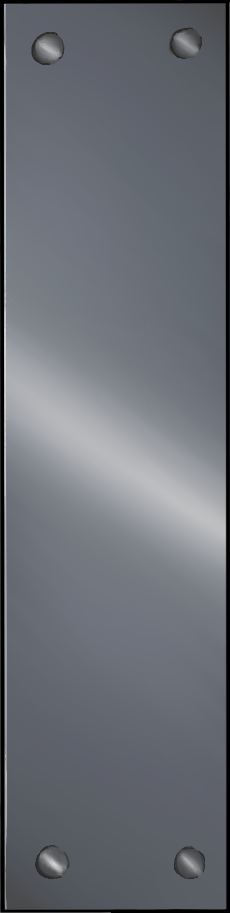
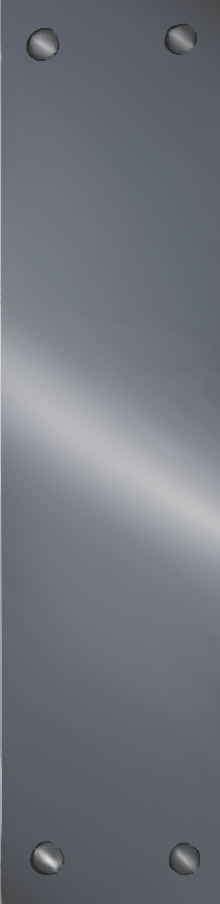
can move camera around freely. buggy jiggle visible

Changed region(s): [[0.0, 0.0, 1.0, 1.0]]

diff --git a/Components/ComponentEditor.py b/Components/ComponentEditor.py
@@ -24,6 +24,7 @@ class Editor(Component.Component):
         self.state = EditorState.Free
         self.minZoom = 1.0/15
         self.maxZoom = 1.0
+        self.startDrag = None
         
     def Start(self):
         self.CreateSelectables()
@@ -73,7 +74,12 @@ class Editor(Component.Component):
         if GlobalVars.mouseLeft:
             self.OnLeftClick()
         if GlobalVars.mouseMid:
+            if self.startDrag is None:
+                self.startDrag = ComponentTransform.Transform.ScreenToWorldPos(GlobalVars.mousePosScreen, self.workingScene.camera)
+                self.camStartPos = self.workingScene.camera.parent.GetComponent(ComponentType.Transform).position
             self.MoveCamera()
+        else:
+            self.startDrag = None
         if GlobalVars.scrollEvent is not None:
             self.ScrollCamera()
             
@@ -83,8 +89,9 @@ class Editor(Component.Component):
         if self.state == EditorState.Placing:
             self.PlaceObject()
             
-    def MoveCamera(self):
-        pass
+    def MoveCamera(self): #function jiggles aroung the more zoomed out it is, probably because camera moves but is also used for screen to world transform
+        drag = ComponentTransform.Transform.ScreenToWorldPos(GlobalVars.mousePosScreen, self.workingScene.camera) - self.startDrag
+        self.workingScene.camera.parent.GetComponent(ComponentType.Transform).position = self.camStartPos - drag #change to camera's internal move function
     
     def ScrollCamera(self):
         scroll = GlobalVars.scrollEvent.y

diff --git a/Components/ComponentTransform.py b/Components/ComponentTransform.py
@@ -2,6 +2,7 @@ import json
 from . import Component
 from Vector import Vec2
 from lib import GlobalVars
+from Components.Component import ComponentType
 
 class TransformState:
     def __init__(self, transform):
@@ -34,15 +35,17 @@ class Transform(Component.Component):
     def WorldToScreenPos(pos,camera):
         width = GlobalVars.screen.get_width()
         height = GlobalVars.screen.get_height()
-        xScreen =        (pos.x*camera.scale + 1)*width /2.0
-        yScreen = height-(pos.y*camera.scale + 1)*height/2.0
+        camTransf = camera.parent.GetComponent(ComponentType.Transform)
+        xScreen =        ((pos.x-camTransf.position.x)*camera.scale + 1)*width /2.0
+        yScreen = height-((pos.y-camTransf.position.y)*camera.scale + 1)*height/2.0
         return Vec2(xScreen,yScreen)
     
     def ScreenToWorldPos(pos,camera):
         width = GlobalVars.screen.get_width()
         height = GlobalVars.screen.get_height()
-        xWorld = (pos.x*2.0/width - 1)/camera.scale
-        yWorld = ((height-pos.y)*2.0/height - 1)/camera.scale
+        camTransf = camera.parent.GetComponent(ComponentType.Transform)
+        xWorld = (pos.x*2.0/width - 1)/camera.scale + camTransf.position.x
+        yWorld = ((height-pos.y)*2.0/height - 1)/camera.scale + camTransf.position.y
         return Vec2(xWorld,yWorld)
     
     def SaveState(self):

diff --git a/Components/ComponentCamera.py b/Components/ComponentCamera.py
@@ -8,8 +8,8 @@ class Camera(Component.Component):
         self.initPos = position
         self.scale = scale #factor by which the scene scales, or zoom factor ; greater -> more zoomed in
     
-    def Start(self):
-        self.transform = self.parent.GetComponent(Component.ComponentType.Transform)
+    # def Start(self):
+    #     self.transform = self.parent.GetComponent(Component.ComponentType.Transform)
     
     def Decode(self, obj):
         super().Decode(obj)
